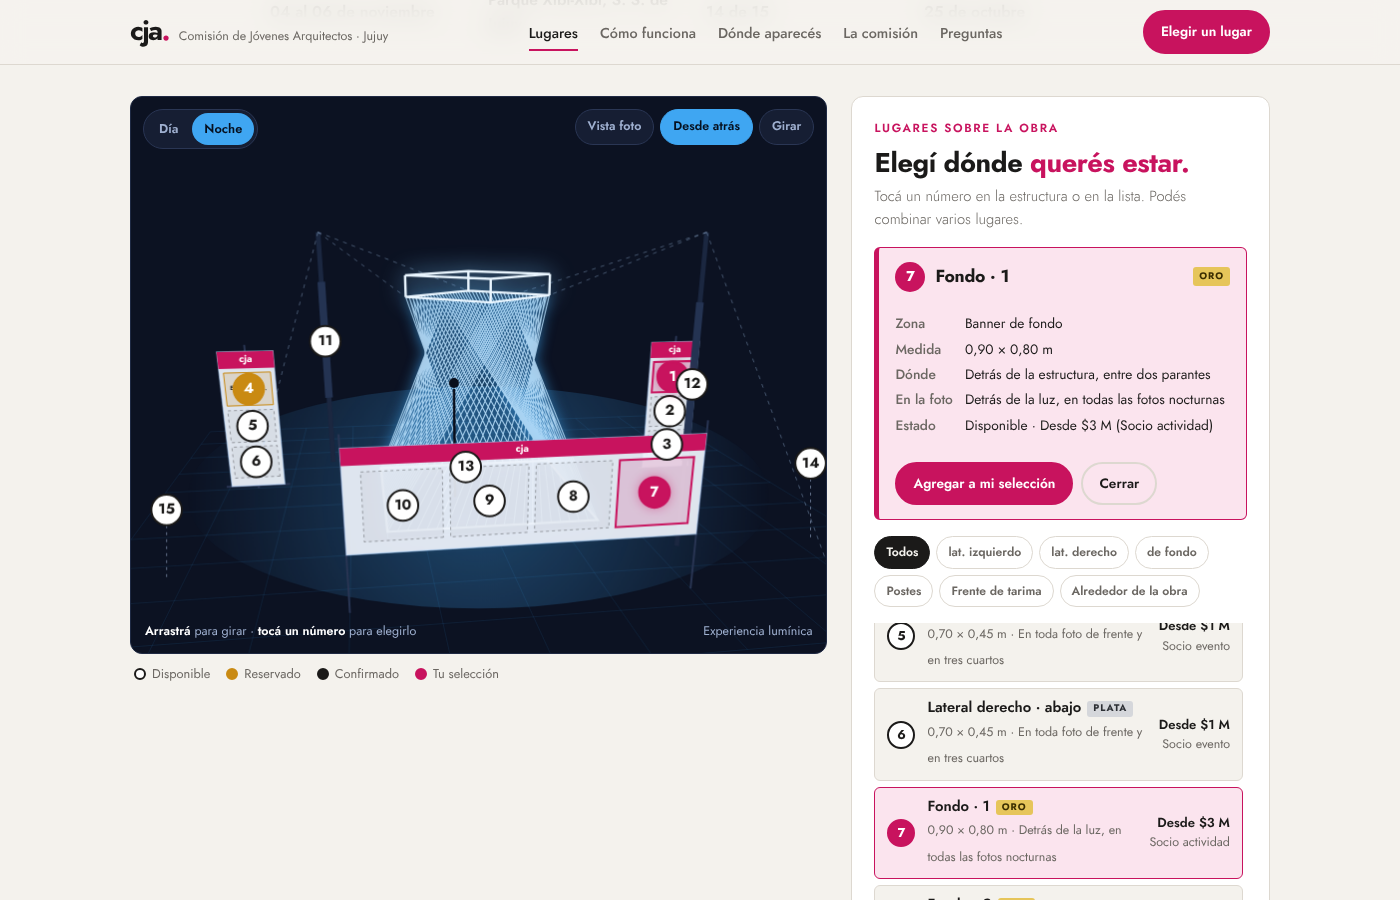
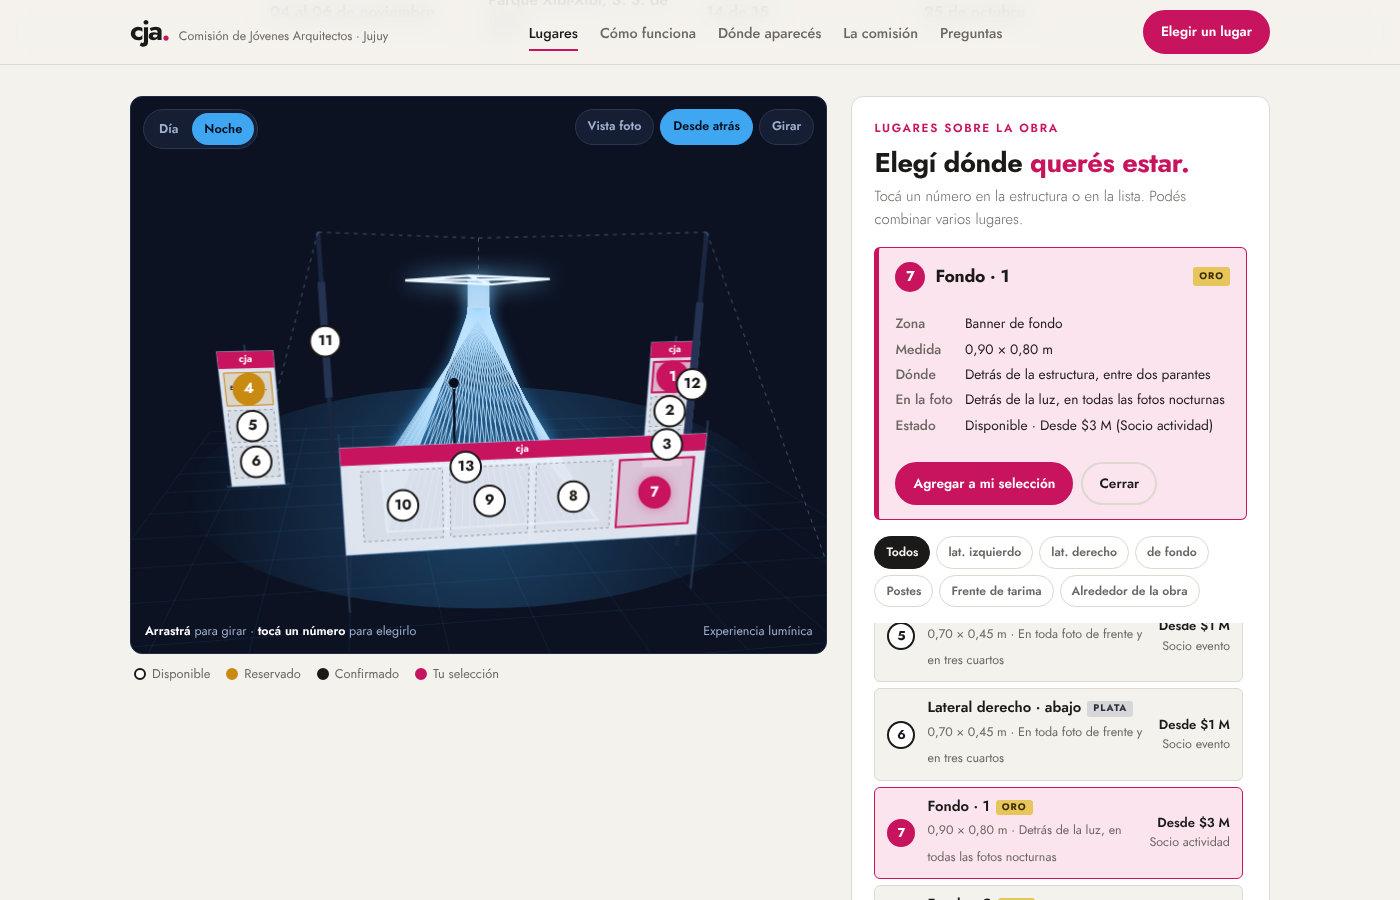
fix(sitio-cja): geometría de la estructura según el modelo SketchUp
Los hilos van del perímetro de la tarima a un cuello angosto con giro,
el marco superior de 1,50 m lleva diagonales en X y cuelga de un cable
tendido entre los dos postes. Marcadores 14 y 15 reubicados.

Claude-Session: https://claude.ai/code/session_01AcELABFY21tac7ncyxPKsw

Changed region(s): [[0.2764, 0.28, 0.43, 0.4978], [0.0921, 0.5289, 0.1536, 0.5911], [0.5529, 0.4978, 0.6143, 0.5289]]

diff --git a/sitio-cja/app.js b/sitio-cja/app.js
@@ -18,13 +18,17 @@
   $('cWeb').textContent=D.contacto.web; $('cWeb').href='https://'+D.contacto.web;
 
   /* ---------- Geometría (metros) ---------- */
-  const B=1.5, T=0.75, H=3.12, Z0=0.10, POST=4.0, PD=2.35, N=22;
+  // Según el modelo SketchUp: tarima 3×3, hilos desde el perímetro que convergen con giro en un cuello
+  // angosto bajo el marco; marco superior 1,50×1,50 con diagonales en X, colgado de un cable entre los dos postes.
+  const B=1.5, T=0.75, Z0=0.10, POST=4.0, PD=2.35, N=26;
+  const NECK_R=0.16, NECK_Z=2.95, H=3.35, HANG_Z=3.92, TW=0.36;
   function perim(u,s,rot,z){u=((u%1)+1)%1;const k=u*4,side=Math.floor(k),f=k-side;let x,y;
     if(side===0){x=-s+2*s*f;y=-s}else if(side===1){x=s;y=-s+2*s*f}else if(side===2){x=s-2*s*f;y=s}else{x=-s;y=s-2*s*f}
     const c=Math.cos(rot),sn=Math.sin(rot);return [x*c-y*sn,x*sn+y*c,z];}
-  const strings=[];for(let side=0;side<4;side++)for(let i=0;i<N;i++){const u=(side+i/N)/4;strings.push([perim(u,B,0,Z0),perim(u+0.125,T,Math.PI/4,H)]);}
+  const neckPt=u=>[NECK_R*Math.cos(2*Math.PI*u),NECK_R*Math.sin(2*Math.PI*u),NECK_Z];
+  const strings=[];for(let side=0;side<4;side++)for(let i=0;i<N;i++){const u=(side+i/N)/4;strings.push([perim(u,B,0,Z0),neckPt(u+TW)]);}
   const sq=(s,rot,z)=>[0,.25,.5,.75].map(u=>perim(u,s,rot,z));
-  const base=sq(B,0,Z0),baseLow=sq(B,0,0),top=sq(T,Math.PI/4,H),topUp=sq(T,Math.PI/4,H+0.3);
+  const base=sq(B,0,Z0),baseLow=sq(B,0,0),top=sq(T,Math.PI/4,H);
   const posts=[[PD,-PD],[-PD,PD]];
   const quadXZ=(x0,x1,y,z0,z1)=>[[x0,y,z0],[x1,y,z0],[x1,y,z1],[x0,y,z1]];
   const lerp3=(a,b,t)=>[a[0]+(b[0]-a[0])*t,a[1]+(b[1]-a[1])*t,a[2]+(b[2]-a[2])*t];
@@ -48,8 +52,8 @@
   // franja frontal de tarima
   SPOT[13]={q:[[-B,-B,0],[B,-B,0],[B,-B,Z0],[-B,-B,Z0]],anchor:[0,-B,Z0/2],kind:'strip'};
   // extras: anclados a un costado (láminas y remeras no están sobre la obra)
-  SPOT[14]={q:null,anchor:[-4.1,2.4,1.1],kind:'float'};
-  SPOT[15]={q:null,anchor:[4.1,2.4,0.9],kind:'float'};
+  SPOT[14]={q:null,anchor:[-4.4,3.3,1.3],kind:'float'};
+  SPOT[15]={q:null,anchor:[4.4,3.3,1.0],kind:'float'};
 
   /* ---------- Canvas ---------- */
   const cv=$('cv'),ctx=cv.getContext('2d'),stage=$('stage');
@@ -79,17 +83,26 @@
     // postes (+ vinilos 11 y 12)
     posts.forEach(([x,y],i)=>{const num=i===0?11:12;ctx.beginPath();line([x,y,0],[x,y,POST]);ctx.lineWidth=Math.max(3,W*0.007);ctx.strokeStyle=night?'#1b2740':'#2b2a28';ctx.stroke();
       ctx.beginPath();line([x,y,1.2],[x,y,3.2]);ctx.lineWidth=Math.max(5,W*0.011);ctx.strokeStyle=sel.has(num)||focus===num?'#C8135E':(byN.get(num).estado==='reservado'?'#C98A12':(byN.get(num).estado==='confirmado'?'#4a4642':(night?'#243352':'#d9d4cb')));ctx.stroke();});
+    // cable entre postes (pasa sobre el centro), tensor colgante y riendas a tierra
     ctx.beginPath();ctx.lineWidth=1;ctx.setLineDash([4,5]);
-    line([PD,-PD,POST],top[0]);line([PD,-PD,POST],top[1]);line([-PD,PD,POST],top[2]);line([-PD,PD,POST],top[3]);
+    line([PD,-PD,POST],[0,0,HANG_Z]);line([0,0,HANG_Z],[-PD,PD,POST]);line([0,0,HANG_Z],[0,0,H]);
     line([PD,-PD,POST],[PD*1.6,-PD*1.6,0]);line([-PD,PD,POST],[-PD*1.6,PD*1.6,0]);
     ctx.strokeStyle=night?'rgba(180,215,255,.35)':'rgba(27,26,25,.45)';ctx.stroke();ctx.setLineDash([]);
+    // hilos: del perímetro de la tarima al cuello, con giro
     ctx.beginPath();strings.forEach(([a,b])=>line(a,b));
-    if(night){ctx.shadowColor=`rgba(63,166,242,${0.9*pulse})`;ctx.shadowBlur=14;ctx.strokeStyle=`rgba(190,228,255,${0.55+0.3*pulse})`;ctx.lineWidth=1.1;}
-    else{ctx.strokeStyle='rgba(27,26,25,.35)';ctx.lineWidth=0.8;}
+    if(night){ctx.shadowColor=`rgba(63,166,242,${0.9*pulse})`;ctx.shadowBlur=14;ctx.strokeStyle=`rgba(190,228,255,${0.55+0.3*pulse})`;ctx.lineWidth=1;}
+    else{ctx.strokeStyle='rgba(27,26,25,.42)';ctx.lineWidth=0.8;}
     ctx.stroke();ctx.shadowBlur=0;
-    ctx.beginPath();poly(base);poly(top);poly(topUp);for(let i=0;i<4;i++)line(top[i],topUp[i]);
+    // cuello: haz de hilos que sube hasta el marco
+    const nA=proj([0,0,NECK_Z]),nB=proj([0,0,H]);const c0=Math.cos(theta),s0=Math.sin(theta);
+    const wA=Math.hypot(...((p,q)=>[p[0]-q[0],p[1]-q[1]])(proj([NECK_R*c0,-NECK_R*s0,NECK_Z]),proj([-NECK_R*c0,NECK_R*s0,NECK_Z])));
+    ctx.beginPath();ctx.moveTo(nA[0],nA[1]);ctx.lineTo(nB[0],nB[1]);ctx.lineWidth=Math.max(3,wA);ctx.lineCap='butt';
+    if(night){ctx.shadowColor=`rgba(120,200,255,${pulse})`;ctx.shadowBlur=18;ctx.strokeStyle=`rgba(200,232,255,${0.7+0.2*pulse})`;}else{ctx.strokeStyle='rgba(27,26,25,.75)';}
+    ctx.stroke();ctx.shadowBlur=0;
+    // tarima iluminada y marco superior con diagonales en X
+    ctx.beginPath();poly(base);poly(top);line(top[0],top[2]);line(top[1],top[3]);
     if(night){ctx.shadowColor=`rgba(120,200,255,${pulse})`;ctx.shadowBlur=22;ctx.strokeStyle='#eaf6ff';ctx.lineWidth=2.4;}
-    else{ctx.strokeStyle='#1B1A19';ctx.lineWidth=2;}
+    else{ctx.strokeStyle='#1B1A19';ctx.lineWidth=2.2;}
     ctx.stroke();ctx.shadowBlur=0;
     const p0=proj([0.4,0.2,Z0]),p1=proj([0.4,0.2,Z0+1.7]);
     ctx.beginPath();ctx.moveTo(p0[0],p0[1]);ctx.lineTo(p1[0],p1[1]);ctx.lineWidth=2.5;ctx.strokeStyle=night?'#0a0f1c':'#C8135E';ctx.stroke();
